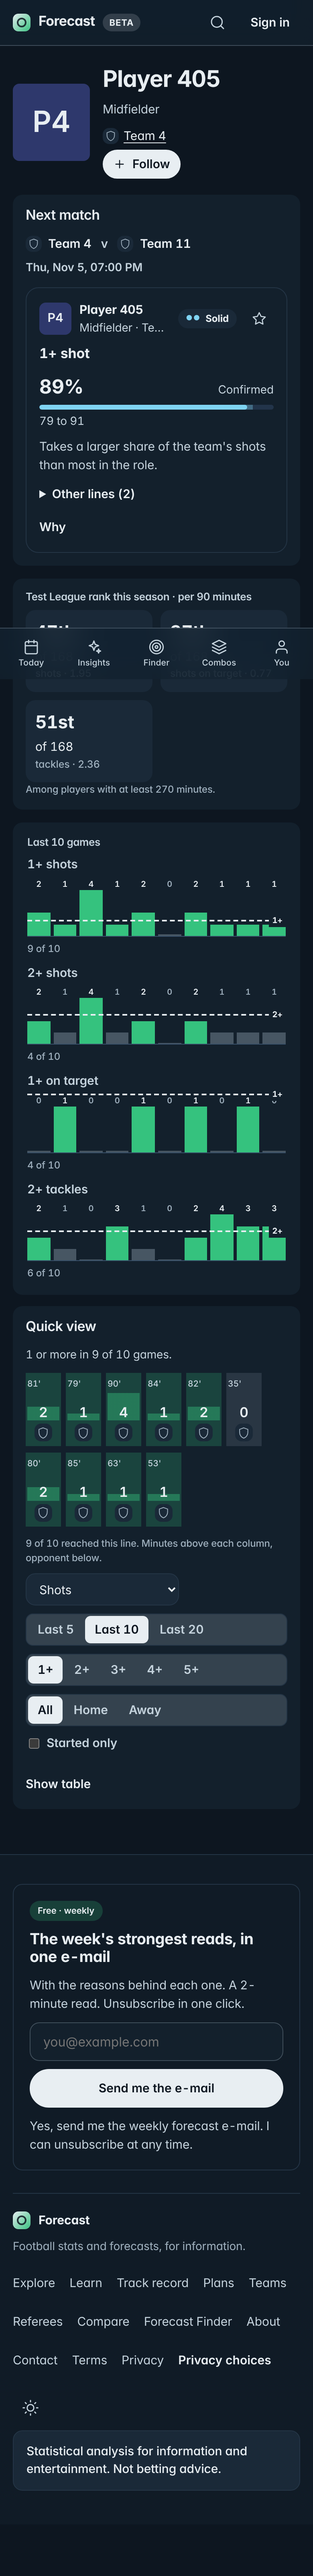
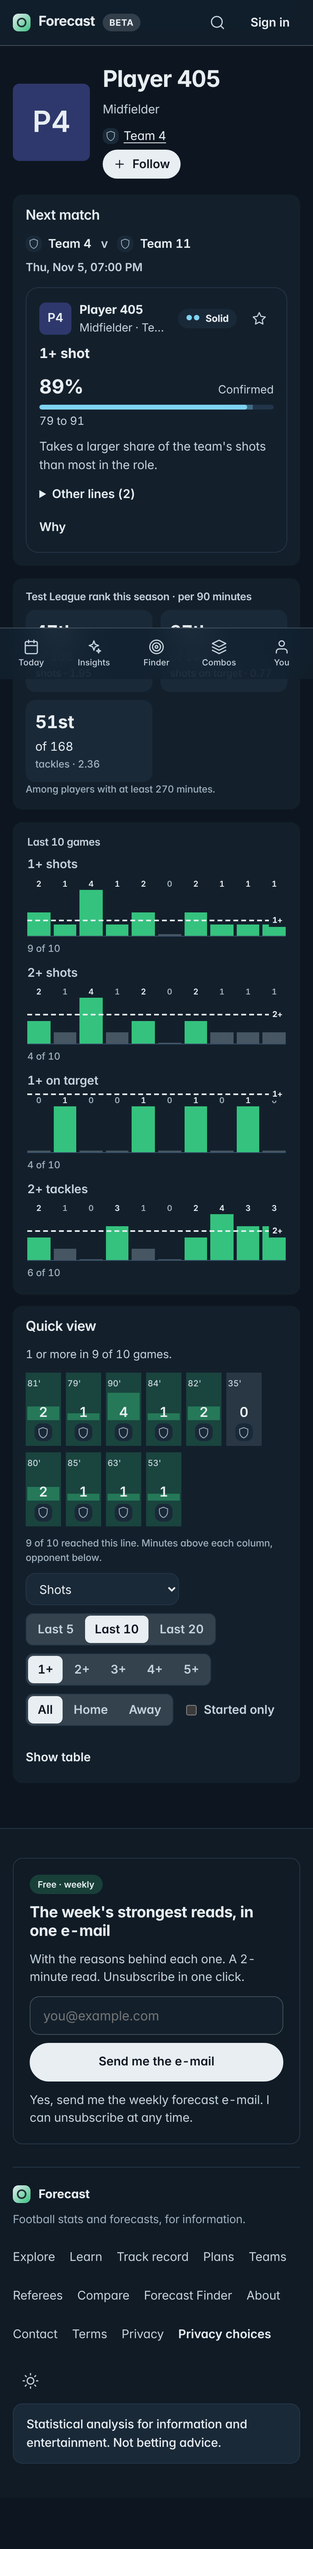
v2: one box for the ten games on the player page
Asked for: lead with Quick view, drop the "Last 10 games" box, and have whichever market the reader
picks draw as the run graph.

The two boxes were the same ten games rendered twice. The four-line overview could not be
interrogated -- no way to change the line, the window or the venue -- and the detailed strip could
not be compared across markets. So merging them is not just tidying: it forces one object to do
both jobs.

GameStrip becomes the run. Each game column stands to its own figure and the chosen line is drawn
across the whole strip as a dashed rule with its own label, which is the graph the removed box
showed. It keeps what made the detailed version worth having -- minutes above each column, the
opponent crest below -- so picking "2+ tackles" now gives the same graph plus who it was against
and how long he played.

Quick view leads the page, straight after the hero and the next match. FormStrips is deleted rather
than left behind as dead code.

The filters were five full-width stacked rows behind a "Change the line or filters" link, so the
control a reader most wants to reach was both buried and then arrived as a wall. They are one
wrapped row now, with the market and the line first because they are the question the box answers,
and window, venue and started-only after them as refinements.

One real loss, recorded rather than glossed: the old box showed four markets at once for
[…]

diff --git a/frontend/src/styles/v2.css b/frontend/src/styles/v2.css
@@ -190,7 +190,7 @@ h2, .k-sec, .td-sec-head h2, .ins h2, .mc-sec h2, .pr h2, .tm h2, .fg-head h3, .
 .lbar-track, .ln-mini i { background: var(--surface3); }
 
 
-/* =============================================================== 5. THE RUN
+/* =============================================================== 5. THE RUN (see also 18)
    The ten-game strip was ten boxes, filled or quiet, under a caption reading "10 of 10 reached it".
    For a player who clears the line every week that is a picture of nothing: ten identical marks
    that cannot distinguish a quiet game from a busy one.
@@ -521,3 +521,60 @@ h2, .k-sec, .td-sec-head h2, .ins h2, .mc-sec h2, .pr h2, .tm h2, .fg-head h3, .
 .qv .filters > * { flex: 0 1 auto; width: auto; min-width: 0; }
 .qv .filters .k-seg, .qv .filters .seg { width: auto; }
 .qv select, .ins-pick { width: auto; min-width: 150px; }
+
+
+/* =============================================================== 18. ONE BOX FOR THE TEN GAMES
+   Asked for: lead the player page with Quick view and drop the "Last 10 games" box, with whichever
+   market you choose drawn as the run graph.
+
+   They were two renderings of the same ten games, stacked. The four-line overview could not be
+   interrogated -- you could not change the line, the window or the venue -- and the detailed strip
+   could not be compared across markets. Merging them means the strip has to do both jobs, so the
+   game-by-game columns now carry the run's proportional bars and the line's rule, while keeping the
+   minutes above and the opponent below that made the detailed version worth having. */
+.pgs-row {
+  position: relative; flex-wrap: wrap; overflow-x: visible; row-gap: 10px; align-items: flex-end;
+  --bar-h: 54px; --foot-h: 26px;
+}
+.pgs-g {
+  position: relative; display: grid; justify-items: center; gap: 3px;
+  grid-template-rows: auto auto var(--bar-h) var(--foot-h);
+  border-radius: 0; background: none; padding: 0 2px;
+}
+.pgs-g .pgs-min { font-size: 10px; font-stretch: 85%; color: var(--text3); }
+.pgs-g .pgs-v {
+  background: none; min-height: 0; padding: 0; display: block;
+  font-size: 12px; font-stretch: 92%; font-weight: 600; color: var(--text3);
+  font-variant-numeric: tabular-nums;
+}
+.pgs-g.on .pgs-v { color: var(--text); }
+/* the bar itself */
+.v2-gs-bar { display: flex; align-items: flex-end; width: 100%; height: var(--bar-h); }
+.v2-gs-bar > b {
+  display: block; width: 100%; border-radius: 0;
+  background: color-mix(in srgb, var(--text3) 34%, transparent);
+}
+.pgs-g.on .v2-gs-bar > b { background: var(--up); }
+.pgs-g.nd .v2-gs-bar > b {
+  height: 100% !important;
+  background: repeating-linear-gradient(45deg, var(--surface3) 0 3px, transparent 3px 6px);
+}
+/* the line, across the whole run, sitting above the bars */
+.v2-gs-rule {
+  position: absolute; left: 0; right: 0; z-index: 2; height: 0; list-style: none;
+  bottom: calc(var(--foot-h) + (var(--rule, 0) * var(--bar-h)));
+  border-top: 2px dashed var(--text);
+}
+.v2-gs-rule em {
+  position: absolute; right: 0; top: -8px; padding: 0 4px;
+  background: var(--surface1); color: var(--text);
+  font-style: normal; font-size: 10px; font-stretch: 88%; font-weight: 700;
+  font-variant-numeric: tabular-nums;
+}
+
+/* The market and the line are the question this box answers, so they lead the controls and the
+   refinements follow. All of it on one wrapped row instead of five full-width stacked ones. */
+.v2-qv { display: flex; flex-wrap: wrap; align-items: center; gap: 10px 14px; }
+.v2-qv > * { flex: 0 1 auto; width: auto; min-width: 0; }
+.v2-qv select { width: auto; min-width: 150px; }
+.v2-qv .check-inline { display: inline-flex; align-items: center; gap: 7px; min-height: 36px; color: var(--text2); }

diff --git a/frontend/src/components/ui/Marks.jsx b/frontend/src/components/ui/Marks.jsx
@@ -87,14 +87,17 @@ export function GameStrip({ games = [], stat, line, label, note = true, testid =
   if (!rows.length) return null;
   const known = rows.filter((g) => g[stat] != null);
   const hits = known.filter((g) => g[stat] >= line).length;
-  // v2: each column stands to its own figure, so the run has a shape and the line can be read
-  // across it. Ten identical boxes could not tell a quiet game from a busy one.
-  const vmax = Math.max(1, ...known.map((g) => g[stat]));
   const word = (label || stat).toLowerCase();
   const anyMins = rows.some((g) => g.minutes != null);
+  // docs/redesign/v2: each column stands to its own figure and the line is drawn across the whole
+  // run, so this is the run graph and the game-by-game detail in one object rather than two
+  // renderings of the same ten games stacked on a page.
+  const vmax = Math.max(1, ...known.map((g) => g[stat]));
+  const rule = Math.min(1, line / vmax);
   return (
     <div className="pgs" data-testid={testid}>
-      <ol className="pgs-row" aria-label={`${label || stat}, game by game, oldest first`}>
+      <ol className="pgs-row" style={{ "--rule": rule }} aria-label={`${label || stat}, game by game, oldest first`}>
+        <li className="v2-gs-rule" aria-hidden="true"><em>{line}+</em></li>
         {rows.map((g, i) => {
           const v = g[stat];
           const hit = v != null && v >= line;
@@ -102,18 +105,18 @@ export function GameStrip({ games = [], stat, line, label, note = true, testid =
           const who = g.opp?.name || "the opponent";
           return (
             <li key={g.match_iid ?? g.kickoff ?? i} className={"pgs-g" + (hit ? " on" : "") + (v == null ? " nd" : "")}
-                style={{ "--v": v == null ? 0 : v, "--vmax": vmax }}
                 data-testid={`${testid}-${g.match_iid ?? i}`}>
-              {anyMins && <span className="pgs-min" title="Minutes played">{mins == null ? "–" : `${Math.round(mins)}'`}</span>}
-              <span className="pgs-v" aria-hidden="true">{v == null ? "–" : v}</span>
+              {anyMins && <span className="pgs-min" title="Minutes played">{mins == null ? "\u2013" : `${Math.round(mins)}'`}</span>}
+              <span className="pgs-v" aria-hidden="true">{v == null ? "\u2013" : v}</span>
+              <span className="v2-gs-bar" aria-hidden="true"><b style={{ height: `${v == null ? 0 : Math.max(2, (v / vmax) * 100)}%` }} /></span>
               <span className="pgs-opp"><Crest team={g.opp} size={22} /></span>
               <span className="sr-only">{`Against ${who}: ${v == null ? "no figure" : `${v} ${word}`}${mins == null ? "" : `, ${Math.round(mins)} minutes`}.`}</span>
             </li>
           );
         })}
       </ol>
-      {/* The columns say most of this themselves; the count is the part worth printing. */}
       {note && <p className="pgs-key k-faint k-small">{known.length ? `${hits} of ${known.length} reached this line. ` : "No figures yet. "}{anyMins ? "Minutes above each column, opponent below." : "Opponent below each column."}</p>}
     </div>
   );
 }
+

diff --git a/frontend/src/pages/Player.jsx b/frontend/src/pages/Player.jsx
@@ -9,7 +9,7 @@ import { FollowButton } from "../components/Actions";
 import { useAuth } from "../lib/auth";
 import { del, put } from "../lib/api";
 import { useToast } from "../components/Ui";
-import { QuickView, RunStrip } from "../components/ui";
+import { QuickView } from "../components/ui";
 
 function Note({ id }) {
   const { user } = useAuth();
@@ -63,29 +63,6 @@ function History({ id }) {
   );
 }
 
-function FormStrips({ id }) {
-  const q = useApi(`/players/${id}/history`, { last: 10 });
-  const games = q.data?.games || [];
-  if (!games.length) return null;
-  const lines = [["shots", 1, "1+ shots"], ["shots", 2, "2+ shots"], ["sot", 1, "1+ on target"], ["tackles", 2, "2+ tackles"]];
-  return (
-    <section className="card pl-form" data-testid="player-form">
-      <h2 className="k-sec">Last {games.length} games</h2>
-      {/* docs/redesign/v2: these were rows of filled-or-empty squares with a count beside them. For a
-          player who clears a line most weeks every square looked the same, so the strip said nothing
-          the count had not already said. The run shows what he actually did each game, with the line
-          drawn across it, so a line he always clears looks different from one he sometimes does. */}
-      <ul className="v2-runs">{lines.map(([s, n, label]) => {
-        const vals = games.filter((g) => g[s] != null).map((g) => g[s]).reverse();
-        return vals.length ? <li key={label}><span className="v2-runs-label">{label}</span><RunStrip values={vals} line={n} label={label} testid={`player-strip-${s}-${n}`} /></li> : null;
-      })}</ul>
-    </section>
-  );
-}
-
-const RANK_LABEL = { shots: "shots", sot: "shots on target", tackles: "tackles", goals: "goals", assists: "assists" };
-const nth = (n) => `${n}${["th", "st", "nd", "rd"][(n % 100 > 10 && n % 100 < 14) || n % 10 > 3 ? 0 : n % 10]}`;
-
 function Ranks({ id }) {
   const q = useApi(`/players/${id}/ranks`);
   const r = q.data?.ranks || [];
@@ -126,9 +103,12 @@ export default function Player() {
         {nx && (forecasts.length ? <div className="fgrid">{forecasts.map((f) => <ForecastCard key={f.id} f={{ ...f, player: p }} teams={teams} homeIid={nx.home_iid} />)}</div>
           : <p className="muted small">No forecasts for this player yet.</p>)}
       </section>
-      <Ranks id={id} />
-      <FormStrips id={id} />
+      {/* Asked for: lead with Quick view and drop the "Last 10 games" box. They were two renderings
+          of the same ten games stacked on one page -- the four-line overview could not be
+          interrogated and the detailed one could not be compared. Quick view now does both jobs,
+          because its strip draws the run graph for whichever market and line you choose. */}
       <History id={id} />
+      <Ranks id={id} />
       <Note id={id} />
     </section>
   );

diff --git a/frontend/src/components/ui/QuickView.jsx b/frontend/src/components/ui/QuickView.jsx
@@ -30,11 +30,18 @@ export function QuickView({ playerId, stat: stat0 = "shots", line: line0 = 1, ti
         <>
           <p className="muted small" data-testid={`${testid}-summary`}>{known ? `${line} or more in ${hits} of ${known} games.` : "No data for this stat."}</p>
           <GameStrip games={games} stat={stat} line={line} label={label} testid={`${testid}-strip`} />
-          {open && <div className="filters"><Select label="Stat" value={stat} onChange={setStat} options={STATS} testid={`${testid}-stat`} />
-        <Seg label="Window" value={last} onChange={setLast} options={[5, 10, 20].map((n) => ({ id: n, label: `Last ${n}` }))} testid={`${testid}-window`} />
-        <Seg label="Line" value={line} onChange={(v) => setLine(Number(v))} options={[1, 2, 3, 4, 5].map((n) => ({ id: n, label: `${n}+` }))} testid={`${testid}-line`} />
-        <Seg label="Venue" value={venue} onChange={setVenue} options={[{ id: "all", label: "All" }, { id: "home", label: "Home" }, { id: "away", label: "Away" }]} testid={`${testid}-venue`} />
-        <label className="check-inline"><input type="checkbox" checked={started} onChange={(e) => setStarted(e.target.checked)} data-testid={`${testid}-started`} /> Started only</label></div>}
+          {/* docs/redesign/v2: the market and the line ARE the question this box answers, so they lead
+              it rather than hiding behind "Change the line or filters" and then arriving as five
+              full-width stacked rows. Window, venue and started-only are refinements and sit after. */}
+          {open && (
+            <div className="filters v2-qv">
+              <Select label="Stat" value={stat} onChange={setStat} options={STATS} testid={`${testid}-stat`} />
+              <Seg label="Line" value={line} onChange={(v) => setLine(Number(v))} options={[1, 2, 3, 4, 5].map((n) => ({ id: n, label: `${n}+` }))} testid={`${testid}-line`} />
+              <Seg label="Window" value={last} onChange={setLast} options={[5, 10, 20].map((n) => ({ id: n, label: `Last ${n}` }))} testid={`${testid}-window`} />
+              <Seg label="Venue" value={venue} onChange={setVenue} options={[{ id: "all", label: "All" }, { id: "home", label: "Home" }, { id: "away", label: "Away" }]} testid={`${testid}-venue`} />
+              <label className="check-inline"><input type="checkbox" checked={started} onChange={(e) => setStarted(e.target.checked)} data-testid={`${testid}-started`} /> Started only</label>
+            </div>
+          )}
           {collapsible && <button type="button" className="k-link qv-toggle" aria-expanded={open} onClick={() => setOpen((o) => !o)} data-testid={`${testid}-toggle`}>{open ? "Hide filters" : "Change the line or filters"}</button>}
           {typeof children === "function" ? children(games) : children}
         </>
